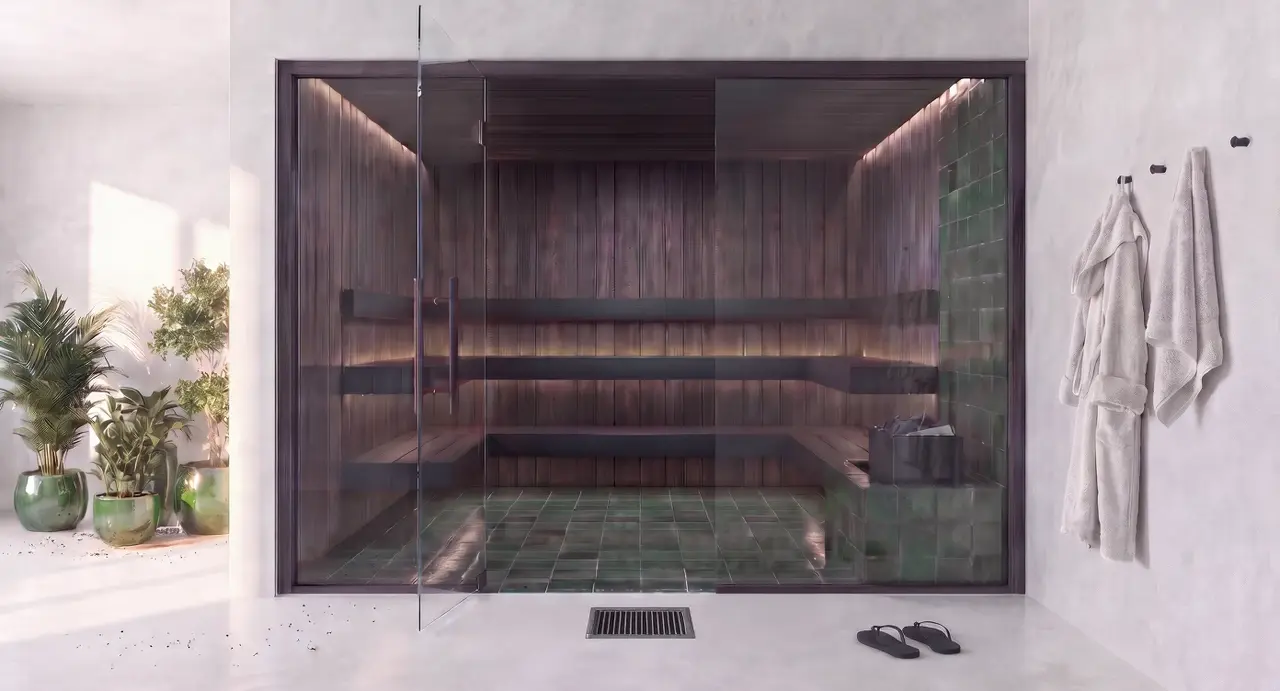
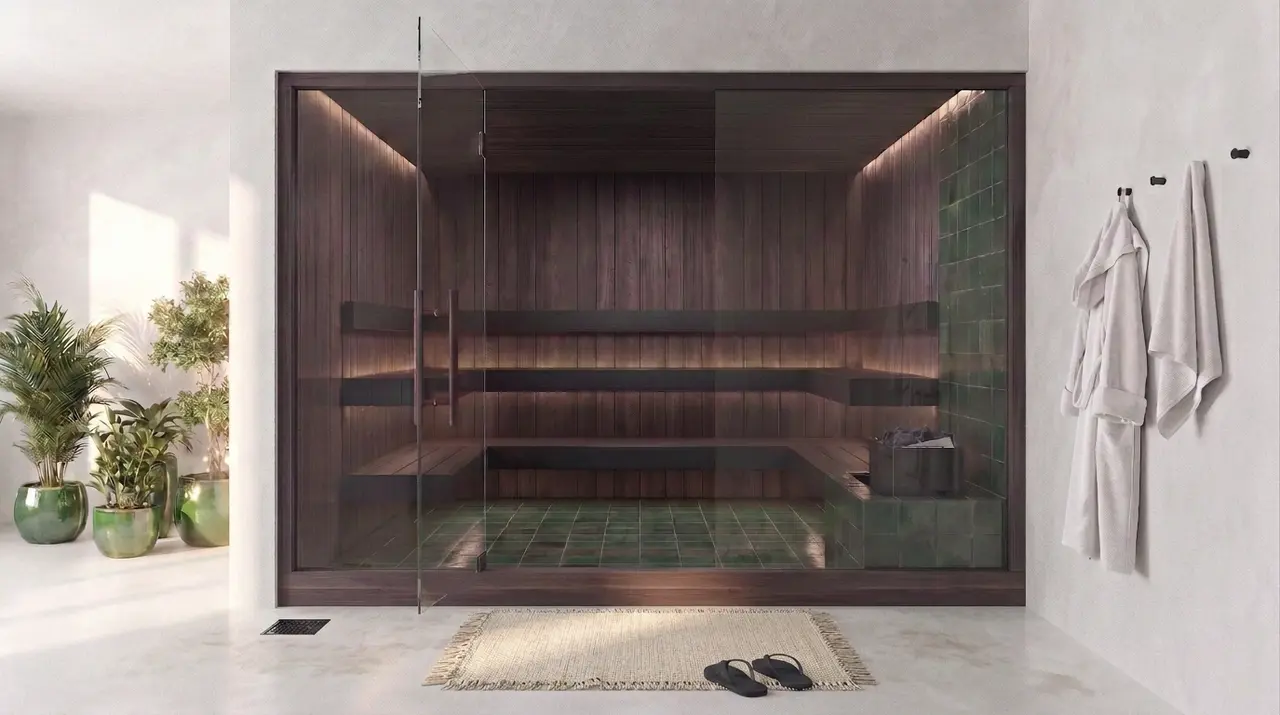
Swap London image for corrected version (1375x768)
Claude-Session: https://claude.ai/code/session_01GsAvaHQmP6Yy5NcyomMmDb

diff --git a/index.html b/index.html
@@ -22,8 +22,8 @@
     <section class="block" aria-label="London">
       <picture>
         <source type="image/webp" sizes="100vw"
-          srcset="assets/london-1280.webp 1280w, assets/london-1392.webp 1392w">
-        <img src="assets/london.jpg" alt="The London signature sauna: dark thermo-treated wood, green glazed tiles and two-tier benches behind a glass front" width="1392" height="752" fetchpriority="high">
+          srcset="assets/london-1280.webp 1280w, assets/london-1375.webp 1375w">
+        <img src="assets/london.jpg" alt="The London signature sauna: dark thermo-treated wood, green glazed tiles and two-tier benches behind a glass front" width="1375" height="768" fetchpriority="high">
       </picture>
       <h2>London</h2>
     </section>
